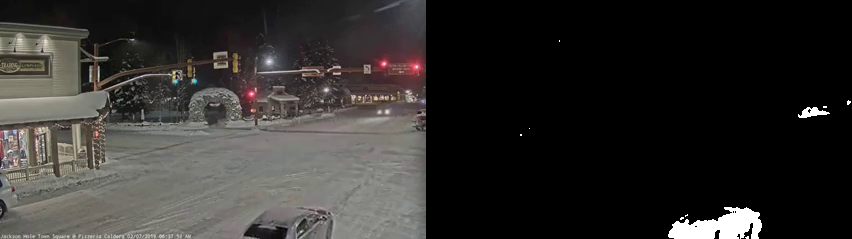
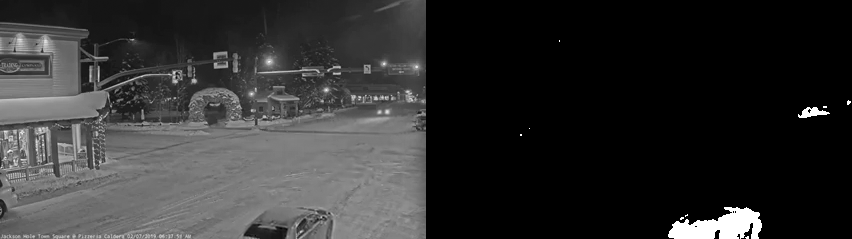
Added a figure for rbg vs grayscale version. Small graphical changes.

diff --git a/paper/Paper.tex b/paper/Paper.tex
@@ -17,18 +17,8 @@
 
 \section*{Abstract}
 \begin{abstract}
-\textit{	Abstract-} In this paper we present a method for background subtraction with the aim to work on a 24/24h videos
-scenario, real time, robust to weather changes and capable to keep foreground objects detected for a
-large amount of time. The work is the base to implement a monitoring system for dangerous event in
-the road (possible scenario is the monitoring system on highways). The system can be expanded to
-detect events such as car driving in the wrong direction, car accidents or people crossing the road.
-The model studied is the PBAS (Pixel-Based Adaptive Segmenter): it follows a parametric background
-modeling paradigm, thus the background is modeled by a history of recently observed pixel values.
-The foreground decision depends on a decision threshold. The background update is based on a learning
-parameter. Both parameters are extended to dynamic per-pixel state variables and introduce dynamic
-controllers for each of them. Furthermore, both controllers are steered by an estimate of the background
-dynamics. All the hyperparameters of the models have been studied and tuned minutely to accomplish the
-aimed task.
+In this paper we present a method for background subtraction with the aim to work on a 24/24h videos scenario, real time, robust to weather changes and capable to keep foreground objects detected for a large amount of time. The work is the base to implement a monitoring system for dangerous event in the road (possible scenario is the monitoring system on highways). The system can be expanded to detect events such as car driving in the wrong direction, car accidents or people crossing the road.
+The model studied is the PBAS (Pixel-Based Adaptive Segmenter): it follows a parametric background modeling paradigm, thus the background is modeled by a history of recently observed pixel values. The foreground decision depends on a decision threshold. The background update is based on a learning parameter. Both parameters are extended to dynamic per-pixel state variables and introduce dynamic controllers for each of them. Furthermore, both controllers are steered by an estimate of the background dynamics. All the hyperparameters of the models have been studied and tuned minutely to accomplish the aimed task. Then we will also explain which additions we introduce in the algorithm to improve its performance in our particular scenario.
 \end {abstract}
 
 \begin{keywords}
@@ -41,7 +31,7 @@ aimed task.
 Background subtraction and foreground detection are the basic tasks of many real application systems,
 for example, surveillance systems, autonomous vehicles, semantic image analysis. Background subtraction
 consists in finding a category for every pixel in a single or (like in this case) in a frames sequence
-of a video and saying if that pixels are part of background or foreground. At the end, the algorithm take as input a video and output a binary mask, where 1s are foreground pixels and 0 background pixels.
+of a video and saying if that pixels are part of background or foreground. At the end, the algorithm take as input a video and output a binary mask, where 1s are foreground pixels and 0s background pixels.
 We restricted our domain to traffic monitoring, in particular this work should put the basis for an automated
 tool to identify cars and detect anomalies in highways and roads 24/24h (e.g. car accidents,
 traffic jam, wrong-direction driving) using a standard RGB stationary camera.
@@ -59,40 +49,29 @@ that a moving car that stops after a while will be classified as foreground for 
 into background, while the opposite event (from static to moving) is easier to handle.
 The entire algorithm has been implemented in C++, since compiled code performances are fundamental to
 allow the system to work in real-time. In \cite{pbas_and_scene_analysis_fpga}, we can find an integration of
-the basic algorithm in a FPGA device, which exploit and hardware implementation to reduce a lot the
-computational time.
-
+the basic algorithm in a FPGA device, which exploit and hardware implementation to reduce a lot the computational time.
 
 \section*{Related work}
 Over the recent past, a multitude of algorithms and methods for background modeling have been developed.
-One of the most prominent and most widely used methods are those based on Gaussian Mixture Models (GMM)
-
-\cite{gmm}. Here, each pixels is modeled as a mixture of weighted Gaussian distributions. Pixels, which
-are detected as background are used to improve the Gaussian mixtures by an iterative update rule. A very
-important non-parametric method is the ViBe \cite{vibe}. Each pixel in the background model is defined by
-a history of the N most recent image values at each pixel and uses a random scheme to update them.
-More over, updated pixels can ”diffuse” their current pixel value into neighboring pixel using another
-random selection method. The preceding scheme is very similar to the approach followed by the PBAS algorithm.
-It can be categorized as a non-parametric method, since it uses a history of N image values as the background
-model, and uses a random update rule similar to the one used by the ViBe algorithm. However, in ViBe, the
-randomness parameters as well as the decision threshold are fixed for all pixels. In contrast, in the PBAS
-algorithm these values are not treated as parameters, but instead as adaptive state variables, which can
-dynamically change over time for each pixel separately.
+One of the most prominent and most widely used methods are those based on Gaussian Mixture Models (GMM) \cite{gmm}. Here, each pixels is modeled as a mixture of weighted Gaussian distributions. Pixels, which are detected as background are used to improve the Gaussian mixtures by an iterative update rule. A very important non-parametric method is the ViBe \cite{vibe}. Each pixel in the background model is defined by a history of the N most recent image values at each pixel and uses a random scheme to update them.
+More over, updated pixels can ”diffuse” their current pixel value into neighboring pixel using another random selection method. The preceding scheme is very similar to the approach followed by the PBAS algorithm.
+It can be categorized as a non-parametric method, since it uses a history of N image values as the background model, and uses a random update rule similar to the one used by the ViBe algorithm. However, in ViBe, the randomness parameters as well as the decision threshold are fixed for all pixels. In contrast, in the PBAS algorithm these values are not treated as parameters, but instead as adaptive state variables, which can dynamically change over time for each pixel separately.
 
 
 \section*{Proposed approach}
 Initially, we studied deeply the PBAS algorithm as originally thought: how it works and how the hyperparameters change its behaviour. Then we implemented it in a very efficient way using C++ and we further analyzed the quality of this first basic version. This shed light upon some improvements for important aspects as we see in the following sections.
 At the end, we have chosen the parameters that achieved the best performance in our scenario.
+
 \subsection{PBAS algorithm} \label{subsect:PBAS}
 
+This section describes the Pixel-Based Adaptive Segmenter, which follows a non-parametric paradigm. Thus, every pixel $x_i$ is modeled by an array of recently observed background values. The method consists of several components which are depicted as a state machine in Figure 1. As a central component, the decision block decides for or against foreground based on the current image and a background model $B(x_i)$. This decision is based on the per-pixel threshold $R(x_i)$. Moreover, the background model has to be updated over time in order to allow for gradual background changes. In the model, this update depends on a per-pixel learning parameter $T(x_i)$.
+\newline
 \begin{figure*}
-  \includegraphics[width=\textwidth]{Figures/PBAS_state_machine.png}
-  \caption{PBAS state machine.}
+    \includegraphics[width=\textwidth]{Figures/PBAS_state_machine.png}
+    \caption{PBAS state machine.}
 \end{figure*}
 
-This section describes the Pixel-Based Adaptive Segmenter, which follows a non-parametric paradigm. Thus,
-every pixel $x_i$ is modeled by an array of recently observed background values. The method consists of several components which are depicted as a state machine in Figure 1. As a central component, the decision block decides for or against foreground
-based on the current image and a background model $B(x_i)$. This decision is based on the per-pixel threshold $R(x_i)$. Moreover, the background model has to be updated over time in order to allow for gradual background changes. In the model, this update depends on a per-pixel learning parameter $T(x_i)$. \newline The background model $B(x_i)$ is defined by an array of N recently observed pixel values:
+The background model $B(x_i)$ is defined by an array of N recently observed pixel values:
 \begin{equation}
 \mathbf{B}(x_i) = \{B_1(x_i),...,B_k(x_i),...,B_N(x_i)\}
 \end{equation}
@@ -196,9 +175,8 @@ In case of highly dynamic background (i.e. big $\overline{d}_{min}(x_i)$), the l
 cause the probability to update $p = 1/T(x_i)$ does not reach
 zero too fast. \newline
 In the other ideal case of a fully static background, a classification as foreground is quite solid so $T(x_i)$ can be rapidly increased or decreased. \newline
-$T_{upper}, T_{lower}:$ control respectively the lowest and the highest probability of updating a pixel and putting it in the
-background model $B$. \newline
-$T_{inc}, T_{dec}:$ are fixed parameters and control the update of the controller T of each pixel, has been chosen to differentiate the two quantity since the pixels that are background are usually the largest part so choosing different parameters can lead to a better perfomance.\newline
+$T_{upper}$, $T_{lower}$: control respectively the lowest and the highest probability of updating a pixel and putting it in the background model $B$. \newline
+$T_{inc}$, $T_{dec}$: are fixed parameters and control the update of the controller T of each pixel, has been chosen to differentiate the two quantity since the pixels that are background are usually the largest part so choosing different parameters can lead to a better perfomance.\newline
 Since one of the objective of the work is to have a robust classification of the foreground objects, we want to find the best values for the T parameters such that an object if classified as foreground stay as it for the longest period of time. 
 \begin{figure}[!t]
     \centering
@@ -245,7 +223,7 @@ In this case the $R(x,y)$ has to follow $d_{minavg}(x,y)R_{scale}$. So:
 anymore as foreground but also a part of the car is lost.}
 \end{figure}
 
-\subsection*{$\alpha$}
+\subsection*{$\bm{\alpha}$}
 From eq \ref{eq:dist} we see that $\alpha$ tells how much to weight the image gradients
 with respect to the image values in the distance computation.
 %\begin{figure}[!t]
@@ -284,7 +262,7 @@ To enhance the performance of the algorithm is applied on the final mask a media
 
 \begin{figure}
 \includegraphics[width=\linewidth]{Figures/median_blur.png}
-\caption{Comparison between output whitout post-processing 			and with median-blur post-processing}
+\caption{Comparison between output whitout post-processing and with median-blur post-processing}
 \end{figure}
 
 
@@ -349,7 +327,11 @@ Experiments show that the RGB version has better cars detection capabilities, bu
     \subfloat[][RGB]{
         \includegraphics[width=0.45\textwidth]{Figures/rgb.png}
     }
-	\caption{RGB version compared with the Grey one. As we see, there is some difference in the detection accuracy}
+    \newline
+    \subfloat[][Gray and RBG on intermittent motion video]{
+        \includegraphics[width=0.45\textwidth]{Figures/rgbvsgray.jpg}
+    }
+    \caption{Comparison between grayscale and RBG versions of the PBAS. As we see, there are some differences in the detection accuracy. In good light situations, e.g. sunny days, the RGB version provide better foreground masks and less noise.}
 \end{figure}
 
 \subsection*{Optical flow analysis}

diff --git a/paper/Main.tex b/paper/Main.tex
@@ -3,6 +3,7 @@
 \documentclass[times, twoside]{paper-StyleBioRxiv}
 \usepackage{blindtext}
 \usepackage[overload]{textcase}
+\usepackage{bm}
 \DeclareMathOperator*{\argmin}{arg\,min}
 \DeclareMathOperator*{\argmax}{arg\,max}
 %\usepackage[nottoc]{tocbibind}
@@ -23,9 +24,9 @@
 
 \begin{document}
 	
-    \include{Paper}
+    \input{Paper}
 
-	\include{Bibliography}
+	\input{Bibliography}
  
 \end{document}
     
